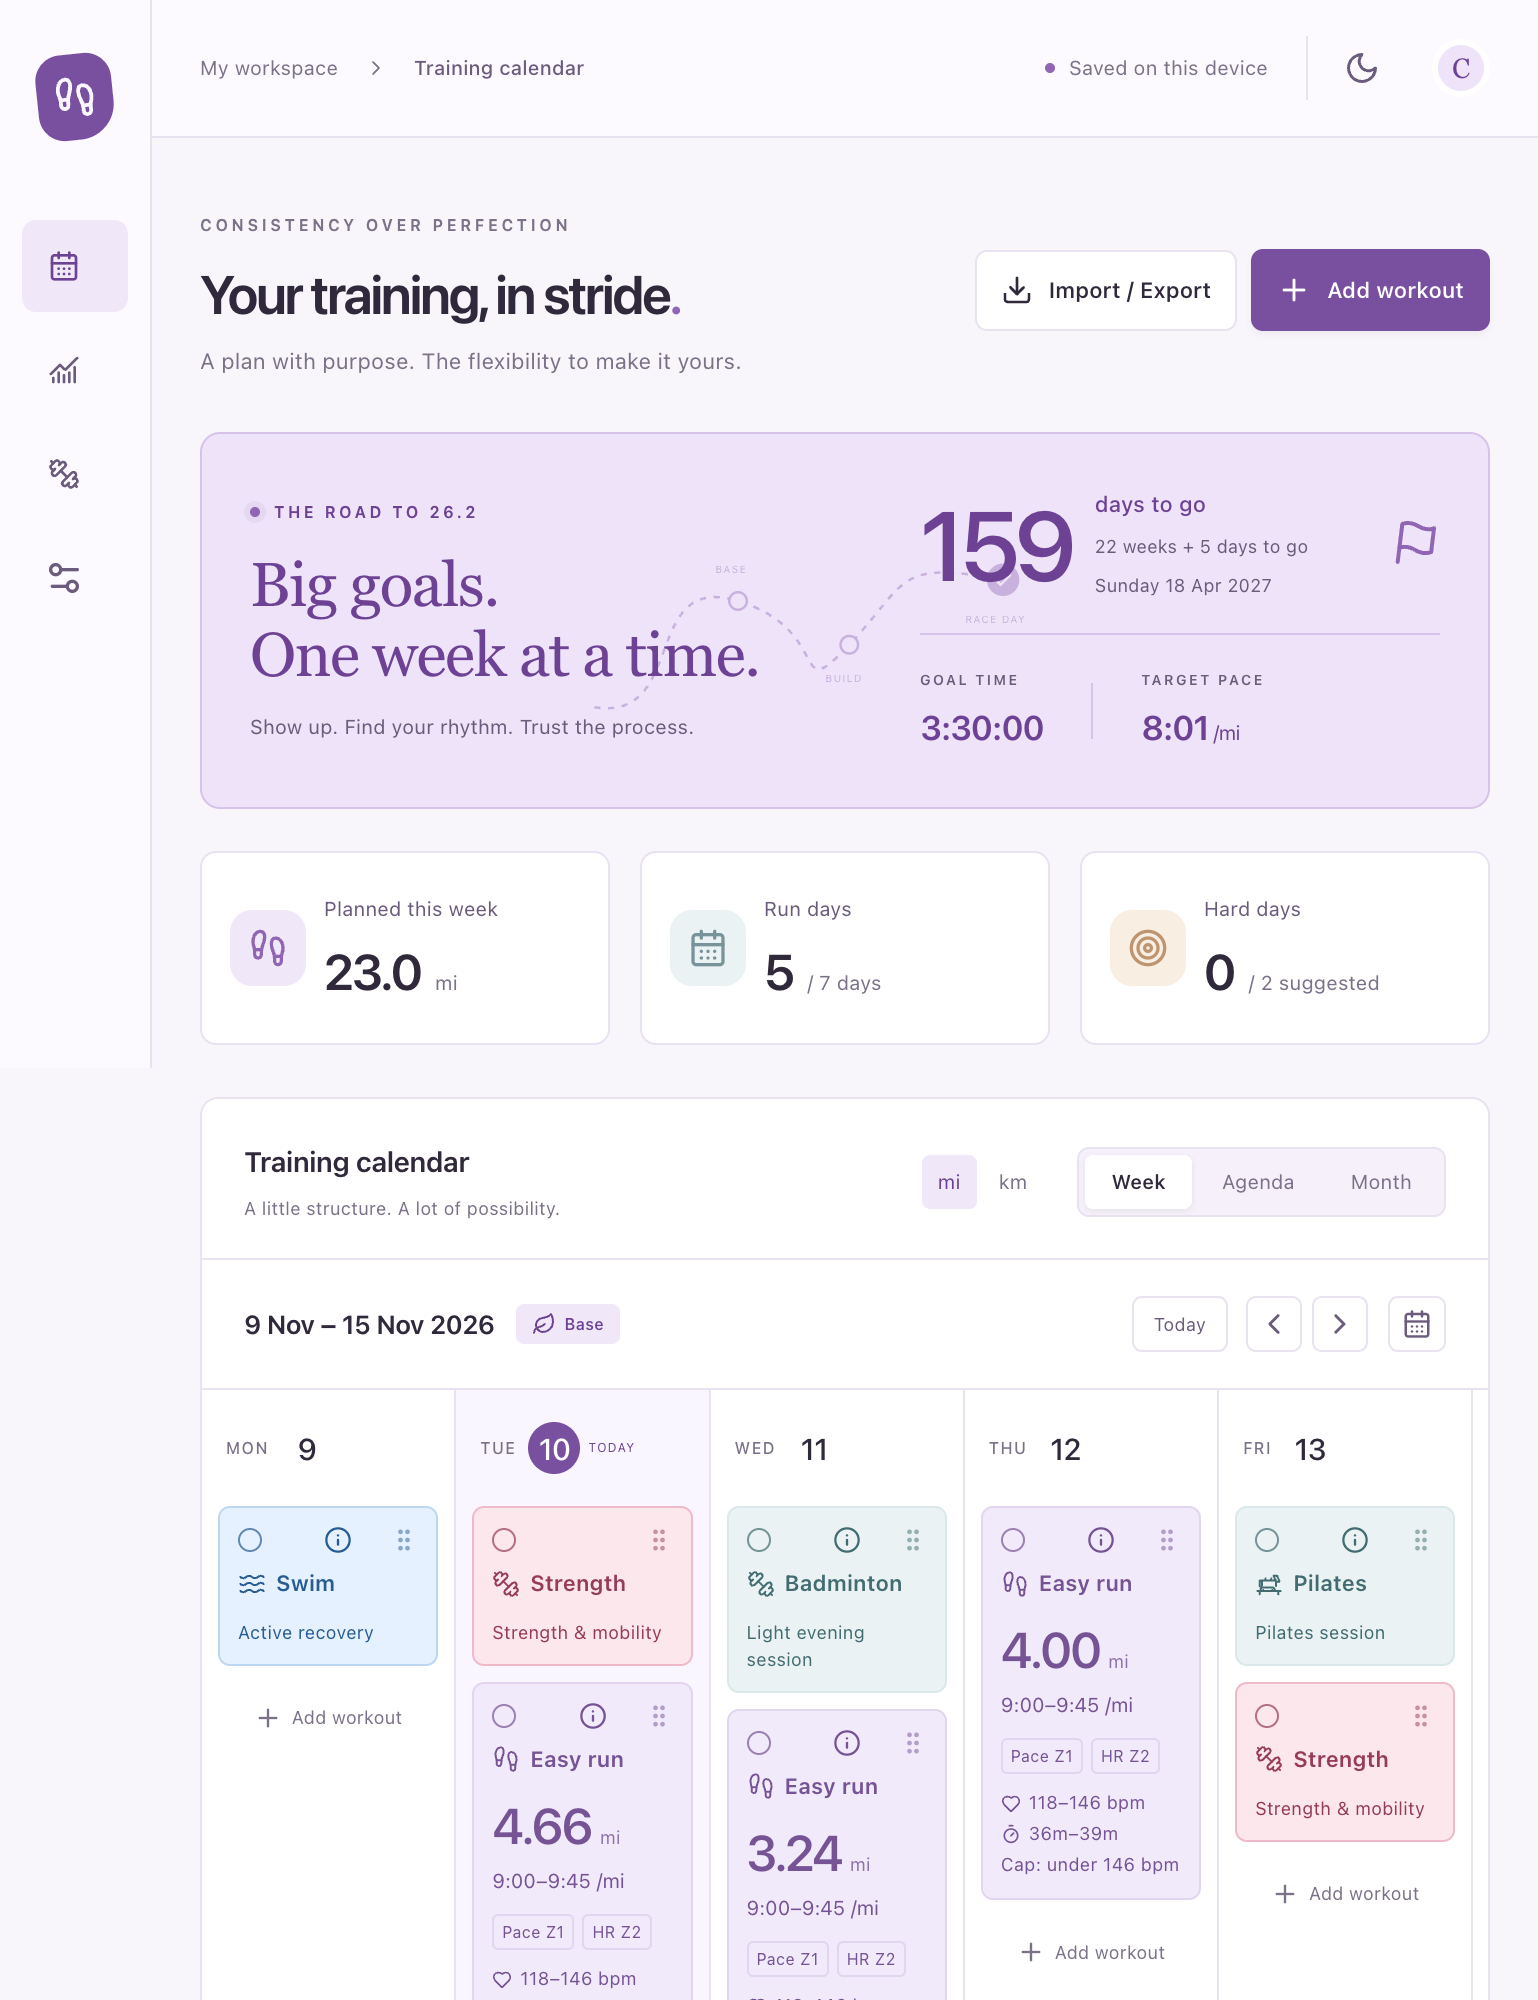
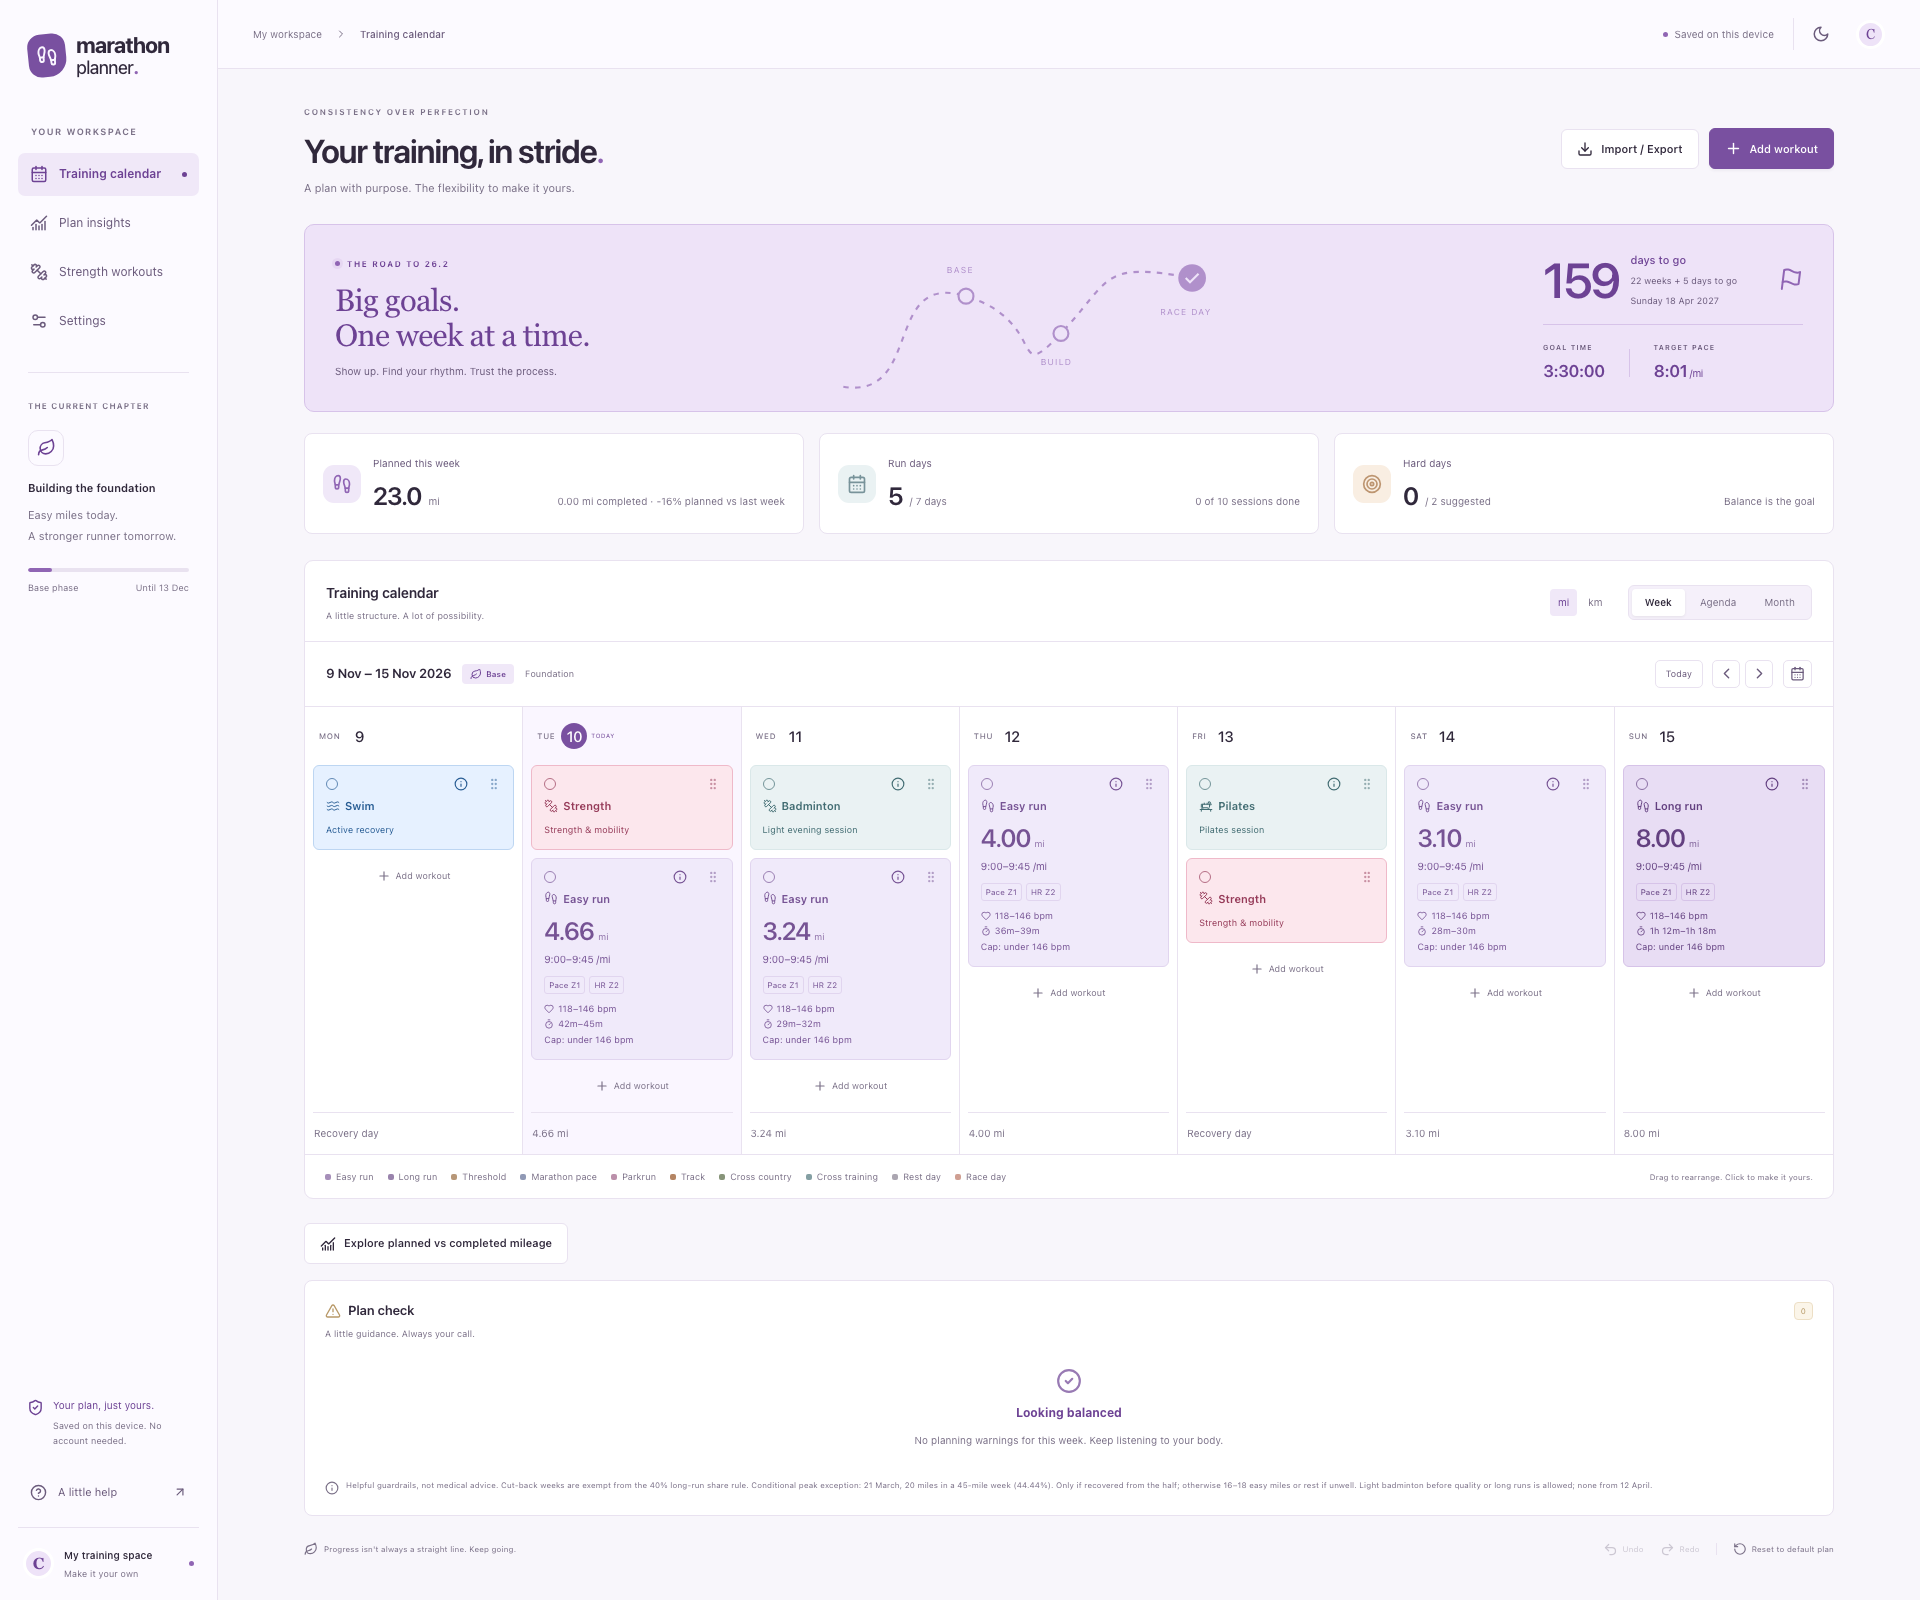
add screenshots in readme and limit exercises shown by default on strength page

diff --git a/src/components/StrengthPage.tsx b/src/components/StrengthPage.tsx
@@ -182,6 +182,7 @@ export function StrengthPage({ workouts, allWorkouts = workouts, selectedWeek, o
   const scheduled = workouts.filter(w => guideActivities.includes(w.activity ?? ''));
   const [selection, setSelection] = useState('library');
   const [search, setSearch] = useState('');
+  const [showAllMoves, setShowAllMoves] = useState(false);
   const [category, setCategory] = useState<WorkoutCategory>('mobility');
   const [generated, setGenerated] = useState<GeneratedWorkout | null>(null);
   const [pool, setPool] = useState<Record<WorkoutCategory, string[]>>(() => ({
@@ -286,6 +287,8 @@ export function StrengthPage({ workouts, allWorkouts = workouts, selectedWeek, o
     }
   }
   const moves = library ? MOVE_GUIDES.filter(move => `${move.name} ${move.equipment ?? ''} ${equipmentTags(move).map(tag => tag.label).join(' ')} ${bodyAreas(move).join(' ')} ${moveCategory(move)} ${moveDifficulty(move)} ${move.cue}`.toLowerCase().includes(search.trim().toLowerCase())) : guidesForNotes(notes);
+  const limitLibrary = library && !search.trim() && !showAllMoves;
+  const visibleMoves = limitLibrary ? moves.slice(0, 5) : moves;
   return <section className="strength-page" aria-label="Strength, Pilates and mobility workout guide">
     <header className="page-heading"><div><span className="eyebrow muted-eyebrow">STRONGER, ONE REP AT A TIME</span><h1><Dumbbell size={26} />Strength studio<span>.</span></h1><p>Build your own balanced workouts, browse the library and log what you complete.</p></div>
       <section className="strength-week-summary" aria-label="Planned strength, Pilates and mobility sessions">
@@ -361,7 +364,7 @@ export function StrengthPage({ workouts, allWorkouts = workouts, selectedWeek, o
     </label>
     {library && <label className="strength-picker strength-search">Find a move
       <input type="search" value={search} onChange={event => setSearch(event.target.value)} placeholder="e.g. core, glutes, band" />
-      <span role="status">{moves.length} of {MOVE_GUIDES.length} moves</span>
+      <span role="status">{visibleMoves.length} of {MOVE_GUIDES.length} moves</span>
     </label>}
     <div className="strength-guide-content" key={`${selection}:${workouts.map(w => w.id).join(',')}`}>
       {!library && <>
@@ -385,9 +388,12 @@ export function StrengthPage({ workouts, allWorkouts = workouts, selectedWeek, o
         {saveError && <p role="alert" className="form-error">{saveError}</p>}
       </section>}
       {library && <p className="field-help">A menu of alternatives, not a {MOVE_GUIDES.length}-exercise workout. Introduce one unfamiliar move at a time, use bodyweight or the lightest band/weight first, and leave 2-3 reps in reserve. Inspect bands for damage; no door anchors are needed for these moves. Use a low, non-slip step and stable support.</p>}
-      <div className="move-library">{moves.map((move, index) => <details className="move-guide" key={move.id} open={index === 0} ref={element => { if (element) movementRefs.current.set(move.id, element); else movementRefs.current.delete(move.id); }}>
+      <div className="move-library">{visibleMoves.map((move, index) => <details className="move-guide" key={move.id} open={index === 0} ref={element => { if (element) movementRefs.current.set(move.id, element); else movementRefs.current.delete(move.id); }}>
         <summary tabIndex={0}>{move.name}<span className="move-category" aria-label={`Category: ${moveCategory(move)}`}>{moveCategory(move)}</span><span className={`move-difficulty difficulty-${moveDifficulty(move).toLowerCase()}`} aria-label={`Difficulty: ${moveDifficulty(move)}`}>{moveDifficulty(move)}</span><EquipmentLabels move={move} /><span className="body-area-tags" aria-label="Body areas">{bodyAreas(move).map(area => <span className="body-area-tag" key={area}>{area}</span>)}</span></summary><ExerciseDiagram move={move} />
       </details>)}</div>
+      {library && !search.trim() && moves.length > 5 && <button type="button" className="secondary-button" aria-expanded={showAllMoves} onClick={() => setShowAllMoves(previous => !previous)}>
+        {showAllMoves ? 'Show first 5 exercises' : `Show all ${moves.length} exercises`}
+      </button>}
       {!moves.length && <p>{library ? 'No moves match your search. Try another name or equipment type.' : 'No matching illustrations for this custom workout. Choose All moves to browse the full library.'}</p>}
     </div>
     </div><aside className="strength-tools" aria-label="Workout tools"><Stopwatch /><RestTimer state={restState} dispatch={restDispatch} />

diff --git a/src/strength-guide.test.ts b/src/strength-guide.test.ts
@@ -284,6 +284,9 @@ describe('illustrated strength guide', () => {
     const html = renderToStaticMarkup(createElement(StrengthPage, { workouts: [], selectedWeek: '2026-10-26', onWeekChange: () => undefined }));
     expect(html).toContain('<h1>');
     expect(html).toContain('Strength studio');
+    expect(html.match(/class="move-guide"/g)).toHaveLength(5);
+    expect(html).toContain('5 of 124 moves');
+    expect(html).toContain('Show all 124 exercises');
     expect(html).toContain('Planned this week');
     expect(html).toContain('No strength, Pilates or mobility sessions planned for this week.');
     expect(html).not.toContain('Training week');

diff --git a/README.md b/README.md
@@ -2,17 +2,23 @@
 
 **Python-validated training plans, with a local-first calendar to make them your own.**
 
+[Open the live app on Vercel](https://training-calendar-running.vercel.app)
+
 Python revises and checks the marathon plan; a React + TypeScript app lets you arrange sessions, track completion, inspect mileage and generate supporting workouts. The included plan targets the 18 April 2027 marathon.
 
 No backend, account, API key or external service is required. Your calendar is saved in your browser; export JSON backups to keep a portable copy.
 
 ## In pictures
 
-| Training calendar | Strength Studio |
-| --- | --- |
-| ![Responsive training calendar with weekly mileage, dated sessions and completion controls](docs/images/training-calendar.png) | ![Strength Studio generator with Mobility, Pilates and Strength choices and exercise-count controls](docs/images/strength-studio.png) |
+### Training calendar
 
-Screenshots show the responsive layout using the included plan.
+![Desktop training calendar showing all seven days across, weekly mileage and planning checks](docs/images/training-calendar.png)
+
+### Strength Studio
+
+![Desktop Strength Studio with planned sessions, workout generator, illustrated exercise library and stopwatch/rest-timer sidebar](docs/images/strength-studio.png)
+
+Screenshots show the included plan at a 1920-pixel desktop width. Click an image to view it at full size.
 
 ## The Python part
 

diff --git a/docs/strength-studio.md b/docs/strength-studio.md
@@ -8,6 +8,8 @@ Choose **Strength workouts** in the navigation (`#strength`). The page opens on 
 
 The 124-movement library includes running-focused calf/foot strength, single-leg control, band hip work, steps, carries, upper-body work and core control. Each movement has original two-position SVG diagrams and technique cues. Search by name, equipment, body area, category or difficulty.
 
+Only the first five library exercises are shown initially. Use **Show all 124 exercises** to expand the list, or search the full library directly. Generated and selected workouts show all their matching exercises.
+
 Collapsed movements show:
 
 - Pink primary-category badges: Strength, Mobility, Stretch, Balance & control, Warm-up or Pilates.
